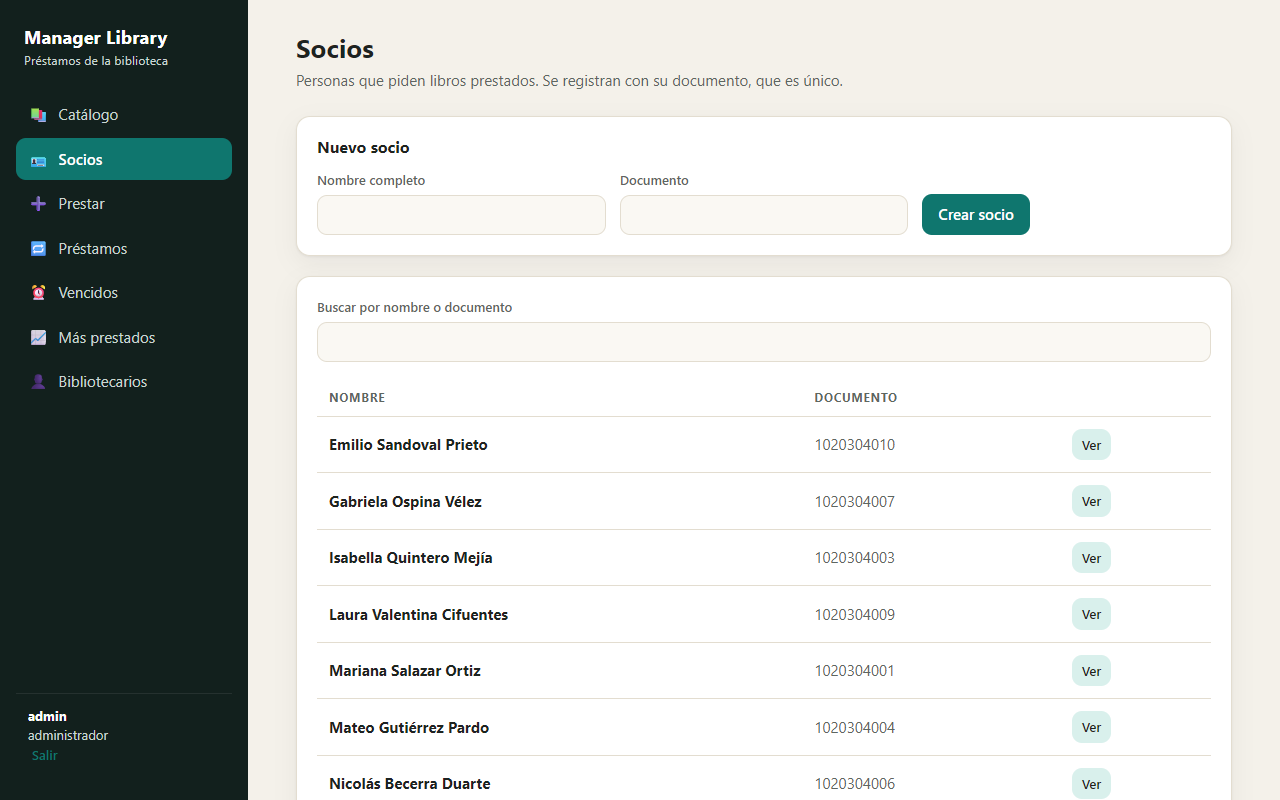
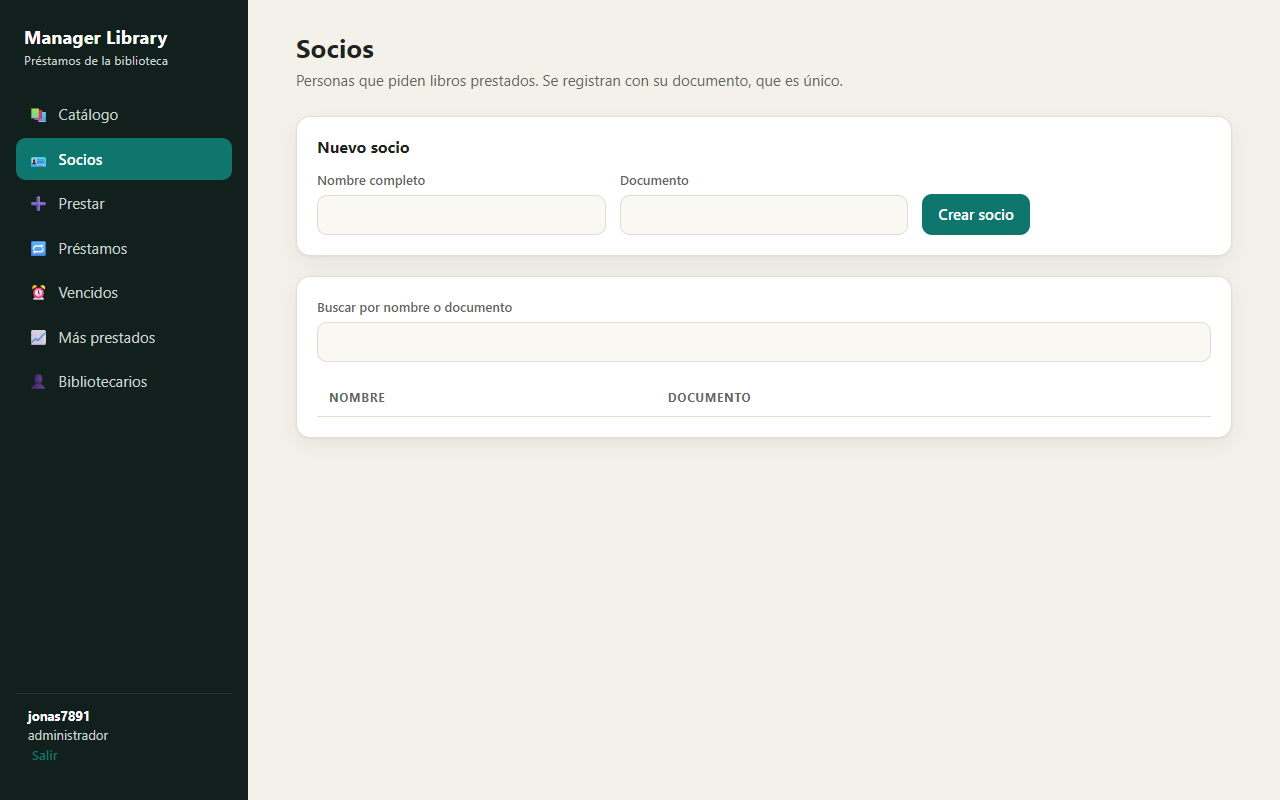
feat(app): run the walkthrough with the new demo users
The walkthrough now needs both passwords from the environment and the screenshots show the new librarian (ADR-014).

Refs: T-22

diff --git a/README.md b/README.md
@@ -33,13 +33,13 @@ O con todo el sistema desde `test-manager-library-3145556-infra`: `docker compos
 
 Con `infra` levantado y el sembrador de `tool` ejecutado:
 
-1. Entrar como `admin` → aparecen los 7 menús.
+1. Entrar como el admin (`Jonas7891`) → aparecen los 7 menús.
 2. **Prestar** → buscar un socio sin vencidos, añadir 1 a 3 libros, *Registrar*: aparece la fecha de vencimiento (14 días).
    Intentar con un socio vencido muestra «El socio tiene libros vencidos…» (409).
 3. **Préstamos** → *Devolver* una línea; los disponibles del libro suben en **Catálogo**.
 4. **Vencidos** → las 3 líneas sembradas, con los días de retraso.
 5. **Más prestados** → rango del mes: filas ordenadas de mayor a menor.
-6. *Salir* y entrar como `bibliotecario.demo` → no aparecen ni «Más prestados» ni «Bibliotecarios».
+6. *Salir* y entrar como el bibliotecario (`Juan Diego`) → no aparecen ni «Más prestados» ni «Bibliotecarios».
 
 `npm run build` compila sin errores.
 
@@ -50,7 +50,7 @@ instalado, así que no descarga navegadores. Hace un préstamo y una devolución
 
 ```bash
 npm install
-ADMIN_PASSWORD=<la del .env de infra> npm run walkthrough   # BROWSER_CHANNEL=chrome si no hay Edge
+ADMIN_PASSWORD=<del .env> LIBRARIAN_PASSWORD=<del .env> npm run walkthrough   # BROWSER_CHANNEL=chrome si no hay Edge
 ```
 
 Corrida del 13-10-2026: los 8 pasos en verde, con una captura por paso en [`evidence/t-22/`](evidence/t-22/).
@@ -64,4 +64,4 @@ Corrida del 13-10-2026: los 8 pasos en verde, con una captura por paso en [`evid
 | 5 | Devolver una línea | `05-devolver.png` |
 | 6 | Vencidos | `06-vencidos.png` |
 | 7 | Más prestados del rango | `07-reporte.png` |
-| 8 | Entrar como `bibliotecario.demo`: sin «Más prestados» ni «Bibliotecarios» | `08-login-bibliotecario.png` |
+| 8 | Entrar como el bibliotecario (`Juan Diego`): sin «Más prestados» ni «Bibliotecarios» | `08-login-bibliotecario.png` |
